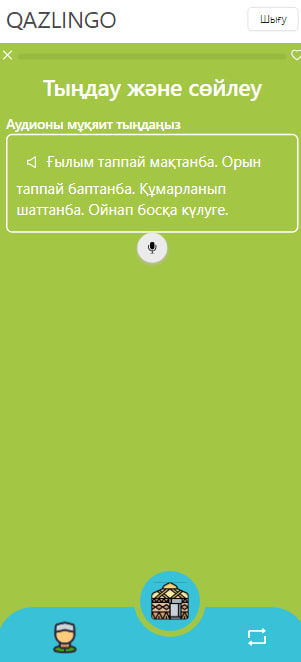
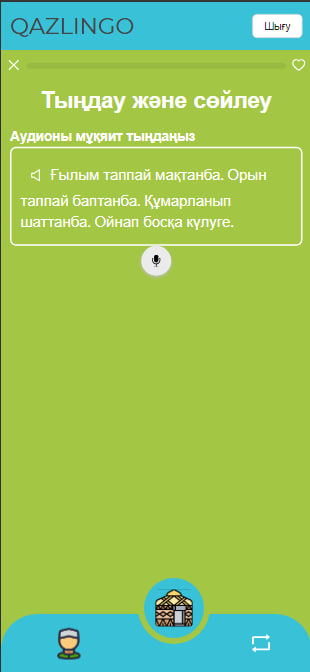
readme screenshot and layout fix

diff --git a/src/pages/Lesson/Grammar.tsx b/src/pages/Lesson/Grammar.tsx
@@ -312,16 +312,20 @@ export default function Lesson() {
 				justify='space-between'
 				align='center'>
 				<Button
+					size='large'
+					onClick={() => navigate(-1)}
 					type='text'
 					icon={<CloseOutlined className='text-white' />}
 				/>
 				<Progress
+					size='default'
 					showInfo={false}
 					percent={
 						(currentQuestion / (currentLesson?.questions?.length - 1)) * 100
 					}
 				/>
 				<Button
+					size='large'
 					onClick={() => {
 						const idxOfSaved = saved?.findIndex(
 							(s) =>

diff --git a/src/pages/Home/index.tsx b/src/pages/Home/index.tsx
@@ -90,7 +90,9 @@ export default function Home() {
 					</div>
 				</div>
 
-				<Link to='/saved'>
+				<Link
+					className='w-16'
+					to='/saved'>
 					<Button
 						type='text'
 						icon={
